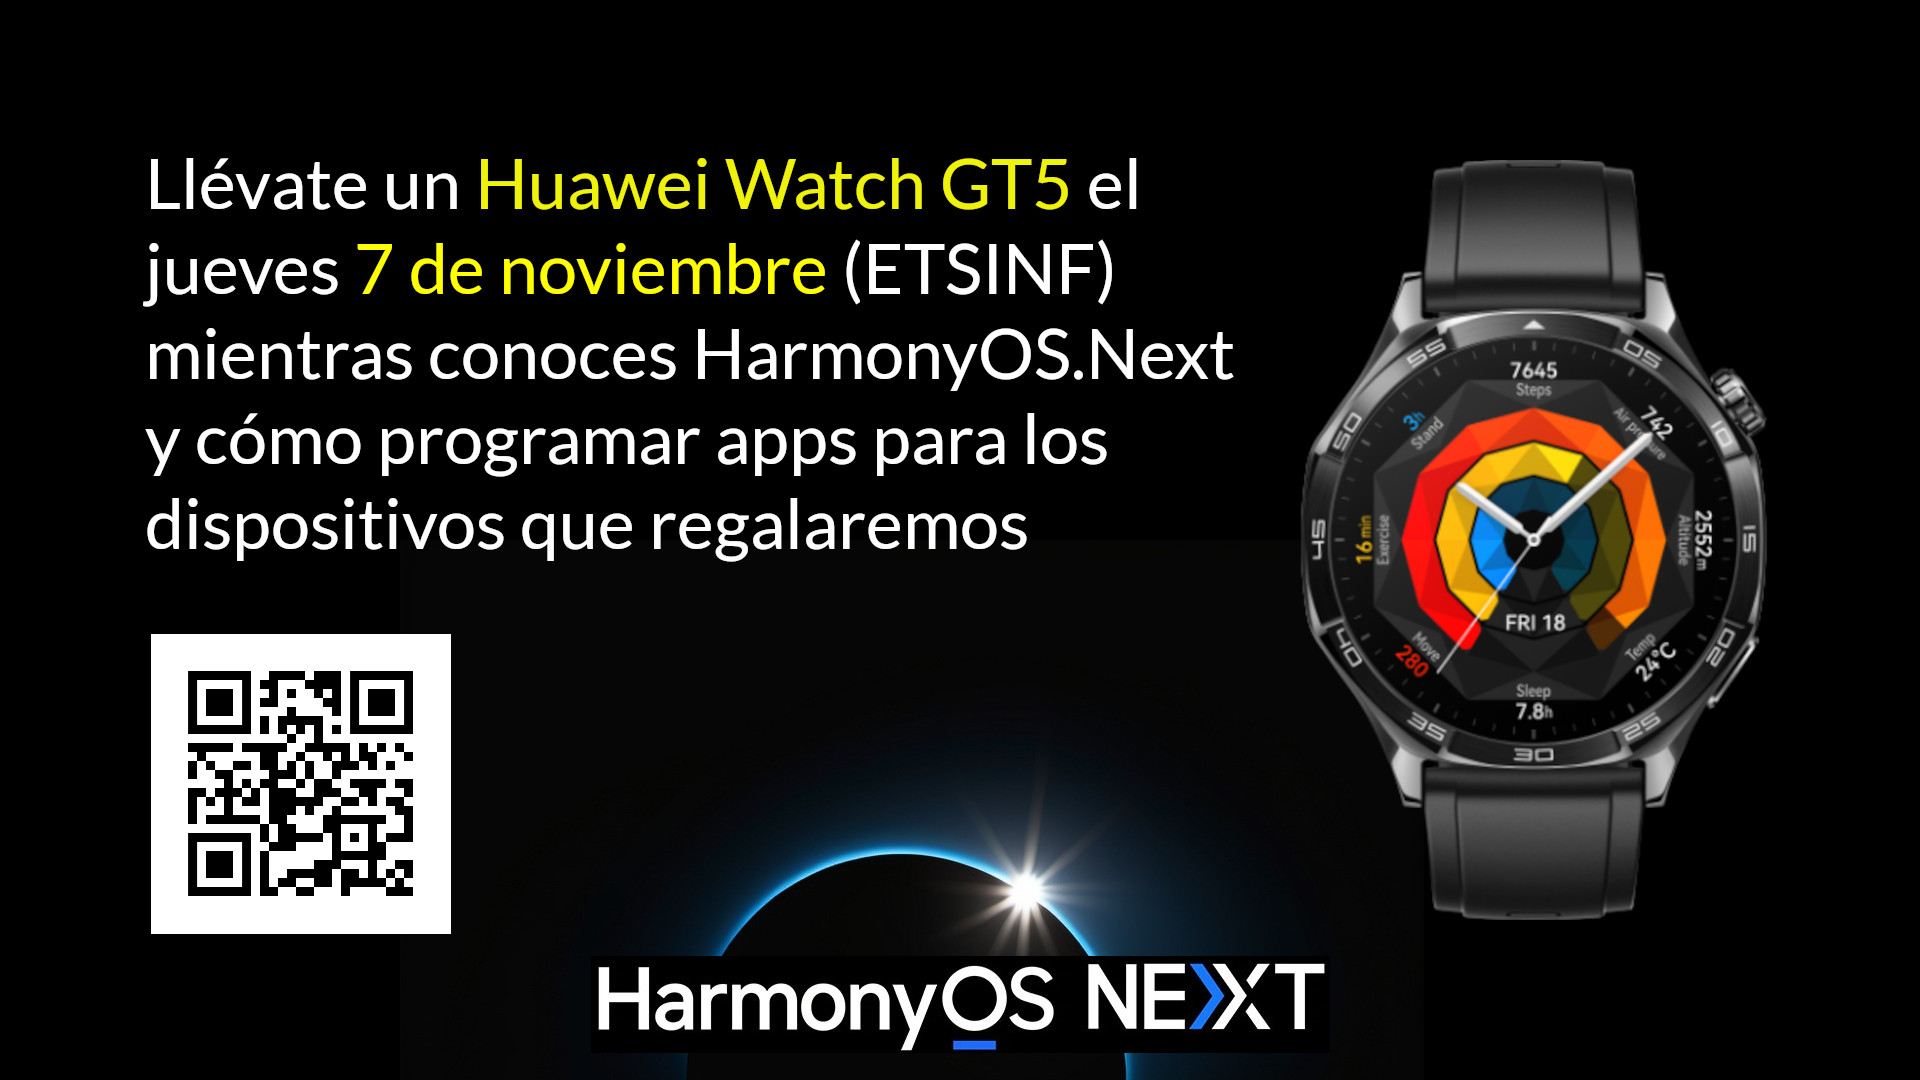
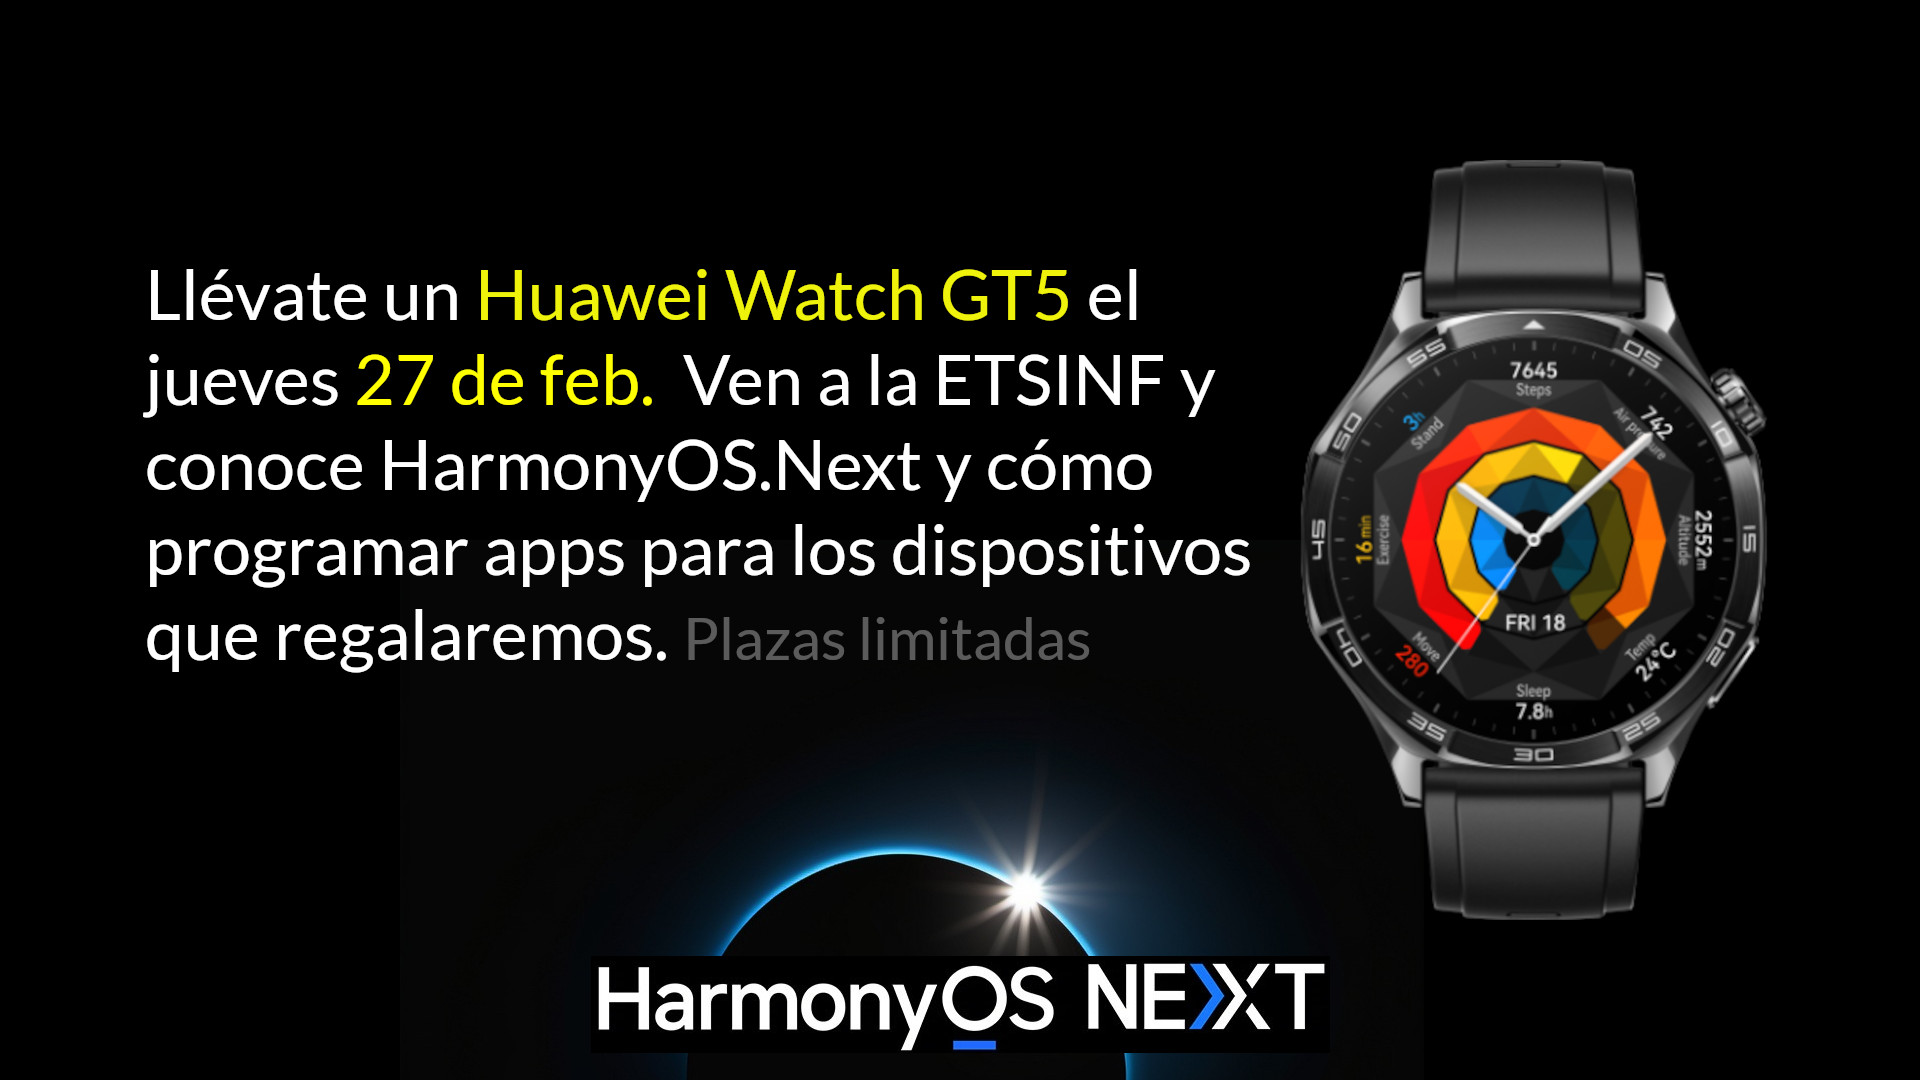
New dates confirmed

Changed region(s): [[0.0625, 0.1222, 0.6562, 0.55], [0.0625, 0.5806, 0.5625, 0.8861]]

diff --git a/_pages/upv.md b/_pages/upv.md
@@ -12,16 +12,11 @@ toc_icon: "bolt"
 
 ### Información importante de última hora: 
 
-La jornada se ha aplazado por fuerza mayor, ya que la [UPV ha suspendido las actividades académicas del 4 al 10 de Noviembre](https://x.com/UPV/status/1852394278317703662).__
-
-
-> Ven a conocer HarmonyOS y cómo desarrollar apps para tu [Huawei Watch GT5](https://consumer.huawei.com/es/wearables/watch-gt5/specs/)? El jueves 7 de noviembre (12.30h) podrás explorar HarmonyOS y probarlo con un GT5 (sí, te puedes llevar uno 🙂).
+> Ven a conocer HarmonyOS y cómo desarrollar apps para tu [Huawei Watch GT5](https://consumer.huawei.com/es/wearables/watch-gt5/specs/)? El jueves 27 de febrero (12.30h) podrás explorar HarmonyOS y probarlo con un GT5 o con otros wearables que regalaremos (sí, te llevarás uno 🙂).
 
 ## ¿Dónde y cuándo?
 
-En breve se notificará las nuevas fechas.
-
-<!-- El jueves __7 de noviembre__ de 2024 a partir de las __12.30h__ en la [Escola Tècnica Superior d’Enginyeria Informàtica (ETSINF) de la UPV](https://www.upv.es/entidades/etsinf/). -->
+El jueves __27 de febrero__ de 2024 a partir de las __12.30h__ en la [Escola Tècnica Superior d’Enginyeria Informàtica (ETSINF) de la UPV](https://www.upv.es/entidades/etsinf/).
 
 ## ¿Para quién?
 
@@ -56,9 +51,9 @@ El reto estará centrado en nuevas aplicaciones para salud y deporte que puedan 
 
 Se podrán hacer equipos de uno o dos personas. Te recomendamos lleves un portátil por equipo para poder desarrollar y presentar la idea.
 
-Mientras tanto, te podemos anticipar que los participantes se llevarán un wearable. Repartiremos __Huawei Watch GT5__ y __Huawei Freebuds__).
+Mientras tanto, te podemos anticipar que los participantes se llevarán un wearable. Repartiremos __Huawei Watch GT5__ y __Huawei Freebuds__.
 
-Daremos más información durante el evento. 
+Daremos más información concreta durante el evento. 
 
-Para más información contacta con martin.alvarez.espinar@huawei.com.
+Para más información mientras tanto, contacta con martin.alvarez.espinar @huawei.com.
 

diff --git a/_pages/splash.md b/_pages/splash.md
@@ -10,10 +10,9 @@ header:
   actions:
     - label: "Más info..."
       url: "/upv"
-excerpt: "IMPORTANTE: hemos aplazado el evento por fuerza mayor. En breve notificaremos la nueva fecha. Descubre HarmonyOS y cómo programar apps para tu Huawei Watch GT5. Ven y podrás conocer el nuevo sistema operativo y cómo programar apps para tu _wearable_ (sí, vamos a regalar dispositivos 🙂)"
+excerpt: "Descubre HarmonyOS y cómo programar apps para tu Huawei Watch GT5 (sí, vamos a regalar dispositivos 🙂). Ven y podrás conocer el nuevo sistema operativo y cómo programar apps para tu _wearable_"
 intro:
-  - excerpt: 'Próximamente te notificaremos cuándo celebraremos esta jornada en la ETSINF de la UPV, donde podrás conocer las novedades del nuevo sistema operativo independiente, y participar en un reto de prototipado rápido... Las mejores ideas se llevarán uno de los _wearables_ para poder probarlo con tus propias apps.' 
-#  - excerpt: 'El jueves 7 de noviembre a las 12.30h te esperamos en la ETSINF de la UPV, donde podrás conocer las novedades del nuevo sistema operativo independiente, y participar en un reto de prototipado rápido... Las mejores ideas se llevarán uno de los _wearables_ para poder probarlo con tus propias apps.'
+  - excerpt: 'El jueves 27 de febrero te invitamos a nuestra jornada de la ETSINF en la UPV, donde podrás conocer las novedades del nuevo sistema operativo independiente, y participar en un reto de prototipado rápido... Las mejores ideas se llevarán uno de los _wearables_ para poder probarlo con tus propias apps. Plazas limitadas, así que debes registrarte.' 
 feature_row_left:
   - image_path: /assets/images/gt5.png
     title: "Tus apps en un Huawei Watch GT5"
